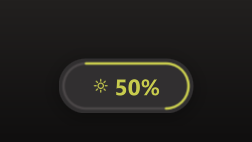
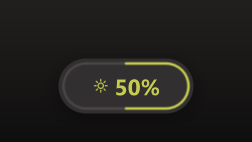
ui: start capsule OSD ring at top center; release 0.1.21

Changed region(s): [[0.4722, 0.7324, 0.6667, 0.7887], [0.3333, 0.4225, 0.5, 0.4789]]

diff --git a/qml/Main.qml b/qml/Main.qml
@@ -699,6 +699,7 @@ QW.Window {
                     const vertical = Math.max(0, h - 2 * r)
                     const arc = Math.PI * r / 2
                     const total = 2 * straight + 2 * vertical + 4 * arc
+                    const halfTop = Math.max(0, w / 2 - r)
 
                     function drawPath(fraction, color) {
                         if (fraction <= 0)
@@ -724,8 +725,8 @@ QW.Window {
                         }
 
                         ctx.beginPath()
-                        ctx.moveTo(x + r, y)
-                        line(x + r, y, x + w - r, y)
+                        ctx.moveTo(x + w / 2, y)
+                        line(x + w / 2, y, x + w - r, y)
                         arcPart(x + w - r, y + r, -Math.PI / 2)
                         line(x + w, y + r, x + w, y + h - r)
                         arcPart(x + w - r, y + h - r, 0)
@@ -733,6 +734,7 @@ QW.Window {
                         arcPart(x + r, y + h - r, Math.PI / 2)
                         line(x, y + h - r, x, y + r)
                         arcPart(x + r, y + r, Math.PI)
+                        line(x + r, y, x + w / 2, y)
                         ctx.strokeStyle = color
                         ctx.lineWidth = lw
                         ctx.lineCap = "round"

diff --git a/src/main.cpp b/src/main.cpp
@@ -34,7 +34,7 @@ int main(int argc, char **argv)
     QGuiApplication app(argc, argv);
     QGuiApplication::setApplicationName(QStringLiteral("Endfield Tray"));
     QGuiApplication::setApplicationDisplayName(QStringLiteral("Endfield Tray"));
-    QGuiApplication::setApplicationVersion(QStringLiteral("0.1.20"));
+    QGuiApplication::setApplicationVersion(QStringLiteral("0.1.21"));
     QGuiApplication::setOrganizationName(QStringLiteral("EndfieldTray"));
     QGuiApplication::setDesktopFileName(QStringLiteral("endfield-tray"));
 

diff --git a/README.md b/README.md
@@ -1,6 +1,6 @@
 # Endfield Tray
 
-![Version](https://img.shields.io/badge/version-0.1.20-C8CC4D?style=flat-square)
+![Version](https://img.shields.io/badge/version-0.1.21-C8CC4D?style=flat-square)
 ![Platform](https://img.shields.io/badge/platform-KDE%20Plasma%206%20%2F%20Wayland-312F30?style=flat-square)
 ![License](https://img.shields.io/badge/license-MIT-AEB23F?style=flat-square)
 
